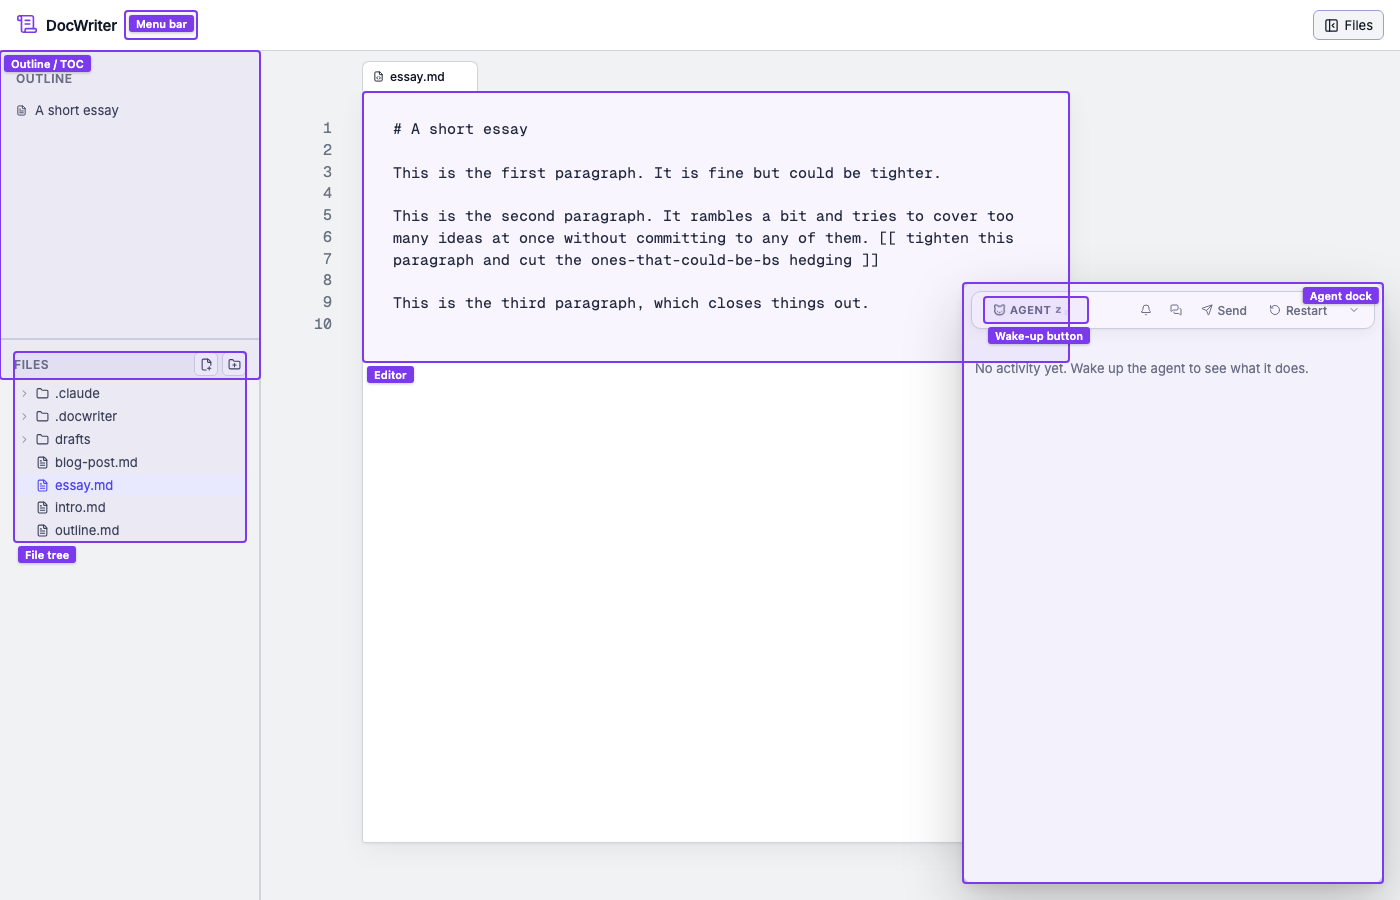
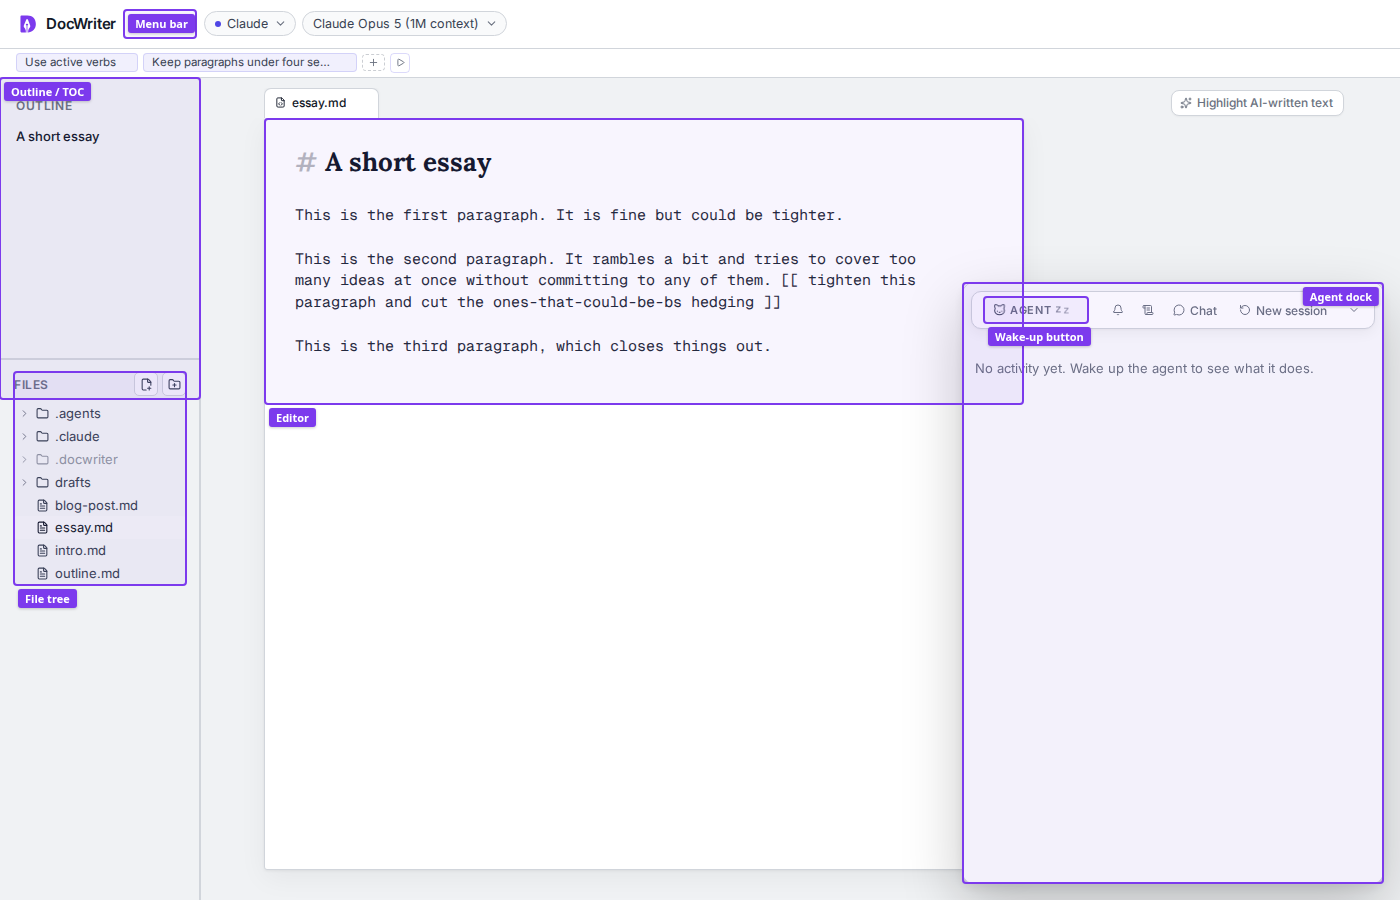
docs: refresh launch assets and validation

diff --git a/docs/images/README.md b/docs/images/README.md
@@ -24,13 +24,16 @@ The standard viewport is 1400 by 900 pixels. The introduction recording uses 120
 | `agent-wakeup-button.png` | Ask and steer | Close crop of the agent pill | None |
 | `agent-paused.png` | Ask and steer | Expanded dock while paused | None |
 | `agent-paused-pill.png` | Ask and steer | Collapsed paused pill | None |
+| `agent-behavior-panel.png` | Ask and steer | Low, Medium, and High autonomy | None |
 | `reviewing-edits-pending.png` | Review edits | One expanded proposal | Provider credential |
 | `agent-accept-reject-all.png` | Review edits | Batch review actions | None |
 | `comment-thread.png` | Comments and critique | Anchored discussion | None |
+| `critique-pass-menu.png` | Comments and critique | Built in reviewer menu | None |
 | `transcript-overview.png` | Sessions and history | Transcript event list | None |
 | `transcript-detail.png` | Sessions and history | Search and tool filter | None |
 | `writing-rules-panel.png` | Customize the agent | Rules toolbar popover | None |
 | `writing-references-panel.png` | Customize the agent | References settings | None |
+| `skills-panel.png` | Customize the agent | Skills settings | None |
 | `hooks-panel.png` | Hooks | Hook settings | None |
 | `blog-post-open.png` | Example projects | Research draft before the run | Provider credential |
 | `blog-pending-edit.png` | Example projects | Research results in the gutter | Provider credential with web search |
